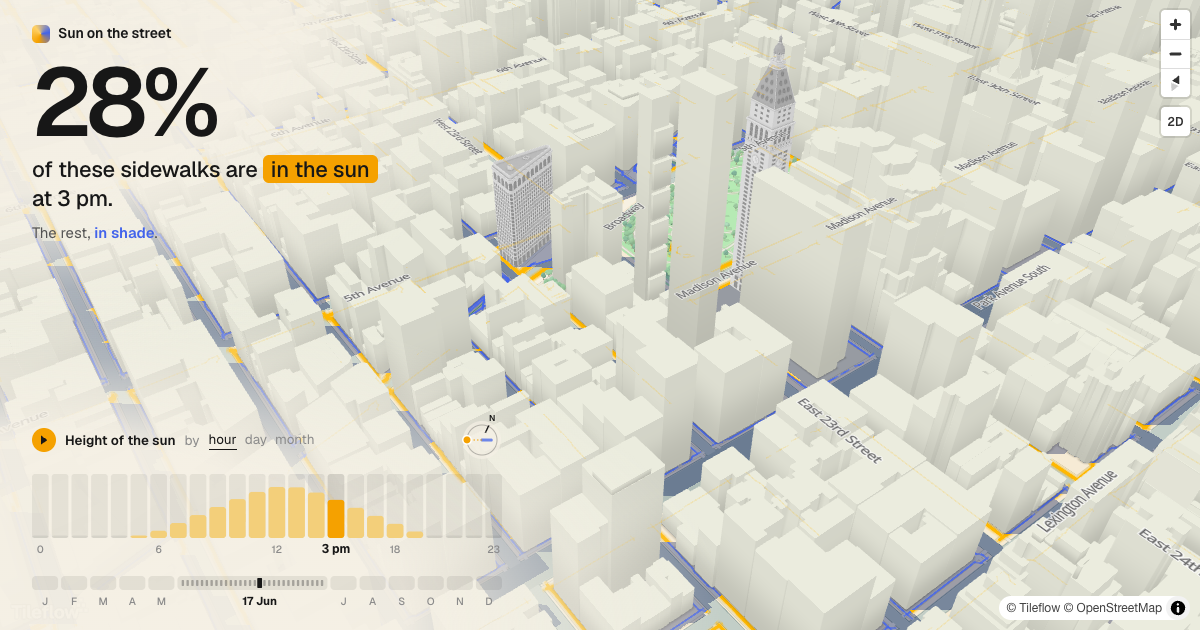
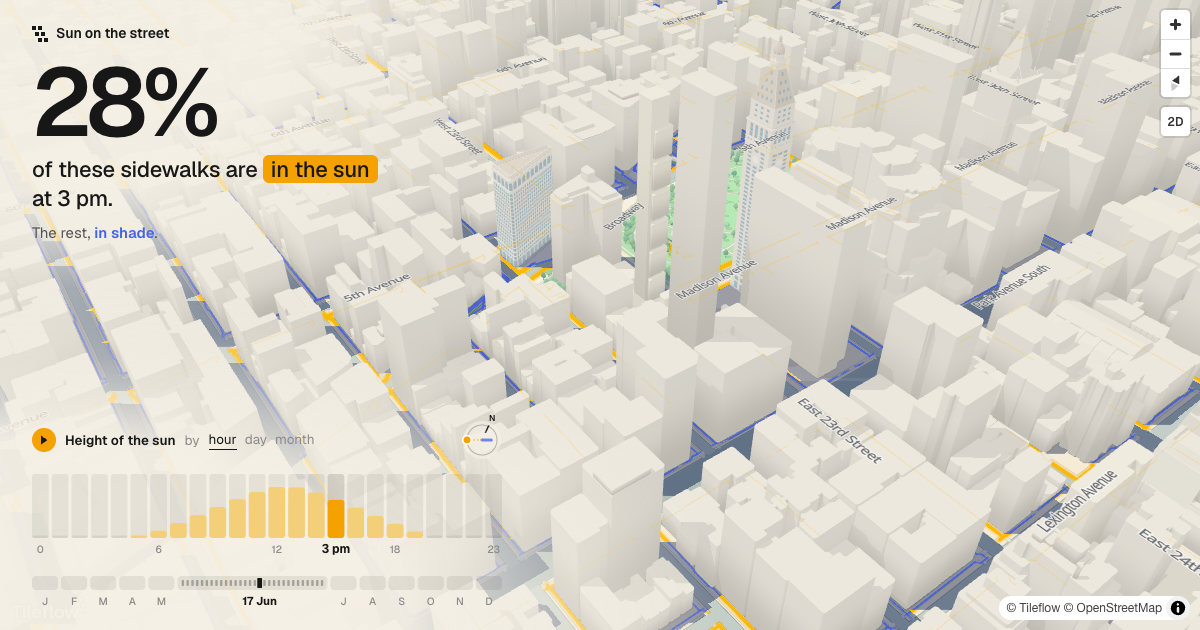
Open on Lower Manhattan, keep Streets buildings and load behind the Tileflow symbol
- The map opens tilted over Lower Manhattan and Brooklyn Heights.
- Buildings inherit the Streets module (colours, materials, edges) and only drop
  its shadow passes; the generic module made them white.
- Map and controls stay hidden behind the animated Tileflow symbol until the
  map has drawn and the first sidewalks are in, then come in one by one.
- Fixes the theme and sun transitions, whose duration was ignored.

Changed region(s): [[0.4008, 0.2413, 0.4625, 0.4222], [0.6167, 0.0603, 0.6783, 0.2714], [0.0308, 0.0302, 0.1542, 0.0603]]

diff --git a/apps/sun-on-the-street/src/style.css b/apps/sun-on-the-street/src/style.css
@@ -31,7 +31,7 @@ html, body { margin: 0; height: 100%; background: #111; color: var(--ink); font:
 button { font: inherit; color: inherit; background: none; border: 0; padding: 0; cursor: pointer; }
 
 /* soft paper behind the text, only where the text is */
-.veil { position: fixed; pointer-events: none; transition: background 0.8s; }
+.veil { position: fixed; pointer-events: none; transition: background 0.8s, opacity 0.7s ease; }
 .veil.top { left: 0; top: 0; width: 520px; height: 360px; background: radial-gradient(ellipse at 0 0, rgb(var(--paper) / 0.94) 38%, rgb(var(--paper) / 0) 72%); }
 .veil.bottom { left: 0; bottom: 0; width: 720px; height: 340px; background: radial-gradient(ellipse at 0 100%, rgb(var(--paper) / 0.95) 40%, rgb(var(--paper) / 0) 72%); }
 
@@ -39,7 +39,7 @@ button { font: inherit; color: inherit; background: none; border: 0; padding: 0;
 #head { position: fixed; left: 32px; top: 24px; max-width: calc(100vw - 64px); pointer-events: none; }
 .brand { display: flex; align-items: center; gap: 8px; font-size: 14px; margin-bottom: 18px; }
 .brand b { font-weight: 600; letter-spacing: -0.01em; }
-.logo { width: 18px; height: 18px; border-radius: 5px; background: conic-gradient(from 200deg, #f5a100, #ffd166, #4263eb, #f5a100); }
+.logo { width: 16px; height: 16px; color: var(--ink); }
 #big { font-size: 96px; font-weight: 600; letter-spacing: -0.05em; line-height: 0.85; font-variant-numeric: tabular-nums; }
 #line { font-size: 22px; font-weight: 500; letter-spacing: -0.01em; line-height: 1.3; margin: 12px 0 0; max-width: 360px; }
 #line mark { white-space: nowrap; padding: 0 8px; border-radius: 6px; color: #171717; background: var(--sun); }
@@ -109,3 +109,33 @@ button { font: inherit; color: inherit; background: none; border: 0; padding: 0;
 .months .hit { fill: transparent; }
 .months .bar:hover .track { fill: color-mix(in srgb, var(--ink) 16%, transparent); }
 .spot-tip { min-height: 2.8em; }
+
+/* The Tileflow symbol: six tiles on a 16-unit grid */
+.symbol { position: relative; display: inline-block; flex: none; }
+.symbol i { position: absolute; left: var(--x); top: var(--y); width: 25%; height: 25%; background: currentColor; }
+
+/* Loading: the symbol's wave, over the paper, until the map and the first sidewalks are in */
+#loader { position: fixed; inset: 0; display: grid; place-items: center; background: rgb(var(--paper)); color: var(--ink); transition: opacity 0.6s ease, visibility 0s linear 0.6s; z-index: 10; }
+#loader .symbol { width: 40px; height: 40px; }
+@media (prefers-reduced-motion: no-preference) {
+  #loader .symbol i { animation: desfase-loop 1500ms cubic-bezier(0.22, 1, 0.36, 1) var(--d) infinite both; }
+}
+@keyframes desfase-loop {
+  0%, 46%, 100% { transform: translate(0, 0) rotate(0) scale(1); }
+  13% { transform: translate(75%, -60%) rotate(-12deg) scale(0.84); }
+  29% { transform: translate(-20%, 15%) rotate(4deg) scale(1.06); }
+}
+html:not(.loading) #loader { opacity: 0; visibility: hidden; pointer-events: none; }
+
+/* Hidden while loading; then the map, the paper and the text come in, one after the other */
+html.loading #map, html.loading .veil, html.loading #head, html.loading #chart, html.loading .maplibregl-ctrl { opacity: 0; }
+#map, #head > *, #chart, .maplibregl-ctrl { transition: opacity 0.7s ease, transform 0.7s cubic-bezier(0.16, 1, 0.3, 1); }
+html.loading #head > *, html.loading #chart { transform: translateY(10px); }
+html:not(.loading) #head > :nth-child(2) { transition-delay: 0.08s; }
+html:not(.loading) #head > :nth-child(3) { transition-delay: 0.16s; }
+html:not(.loading) #head > :nth-child(n + 4) { transition-delay: 0.24s; }
+html:not(.loading) #chart { transition-delay: 0.3s; }
+html:not(.loading) .maplibregl-ctrl { transition-delay: 0.36s; }
+@media (prefers-reduced-motion: reduce) {
+  #map, .veil, #head > *, #chart, .maplibregl-ctrl, #loader { transition-duration: 0.01s; transition-delay: 0s !important; transform: none !important; }
+}

diff --git a/apps/sun-on-the-street/src/main.ts b/apps/sun-on-the-street/src/main.ts
@@ -414,9 +414,22 @@ const RAMP_LABELS = '<div class="ramp"></div><div class="ramp-labels" style="pos
     .map(([t, at]) => `<span style="position:absolute;left:${at}%;transform:translateX(-${at}%)">${t}</span>`)
     .join('') + '</div>';
 
+/**
+ * The page shows the loader until the map has drawn and the first sidewalks are in (or, zoomed out,
+ * as soon as the map has drawn); a slow network never holds it longer than a few seconds.
+ */
+let mapDrawn = false;
+function reveal(force = false) {
+  const root = document.documentElement;
+  if (!root.classList.contains('loading')) return;
+  if (force || (mapDrawn && (share.total > 0 || (map && map.getZoom() < MIN_ZOOM)))) root.classList.remove('loading');
+}
+setTimeout(() => reveal(true), 12000);
+
 /** The headline: what share of the sidewalks in view is in the sun, or gets almost none. */
 function renderShare() {
   if (share.dirty) measureShare();
+  reveal();
   const say = (big: string, line: string, sub = '') => {
     bigEl.textContent = big;
     lineEl.innerHTML = line;
@@ -625,7 +638,7 @@ function showSpot(r: PointResult) {
 // Start on the sidewalks while the map is still loading: the first view is already known
 function warmStart() {
   const v = params.get('view')?.split(',').map(Number);
-  const [lng, lat, zoom] = v && v.length >= 3 ? v : [-73.9803, 40.7575, 15.6];
+  const [lng, lat, zoom] = v && v.length >= 3 ? v : [-74.0065, 40.7072, 13.7];
   if (zoom < MIN_ZOOM) return;
   center = [lng, lat];
   timeZone = tzlookup(lat, lng);
@@ -717,6 +730,10 @@ controller.ready.then((m) => {
 
   layer.setMode(scope === 'hour' ? 'now' : 'day');
   m.on('rotate', () => chartView.update(view()));
+  m.once('idle', () => {
+    mapDrawn = true;
+    reveal();
+  });
 });
 
 // ------------------------------------------------------------------------------------------------

diff --git a/apps/sun-on-the-street/index.html b/apps/sun-on-the-street/index.html
@@ -1,5 +1,5 @@
 <!doctype html>
-<html lang="en">
+<html lang="en" class="loading">
   <head>
     <meta charset="utf-8" />
     <meta name="viewport" content="width=device-width, initial-scale=1" />
@@ -22,11 +22,12 @@
   </head>
   <body>
     <div id="map"></div>
+    <div id="loader" role="status" aria-label="Loading the map"><span class="symbol" aria-hidden="true"><i style="--x:0.00%;--y:0.00%;--d:0ms"></i><i style="--x:37.50%;--y:0.00%;--d:45ms"></i><i style="--x:18.75%;--y:37.50%;--d:90ms"></i><i style="--x:56.25%;--y:37.50%;--d:135ms"></i><i style="--x:37.50%;--y:75.00%;--d:180ms"></i><i style="--x:75.00%;--y:75.00%;--d:225ms"></i></span></div>
     <div class="veil top" aria-hidden="true"></div>
     <div class="veil bottom" aria-hidden="true"></div>
 
     <header id="head" aria-live="polite">
-      <div class="brand"><i class="logo" aria-hidden="true"></i><b>Sun on the street</b></div>
+      <div class="brand"><span class="symbol logo" aria-hidden="true"><i style="--x:0.00%;--y:0.00%;--d:0ms"></i><i style="--x:37.50%;--y:0.00%;--d:45ms"></i><i style="--x:18.75%;--y:37.50%;--d:90ms"></i><i style="--x:56.25%;--y:37.50%;--d:135ms"></i><i style="--x:37.50%;--y:75.00%;--d:180ms"></i><i style="--x:75.00%;--y:75.00%;--d:225ms"></i></span><b>Sun on the street</b></div>
       <div id="big">—</div>
       <p id="line">Following the sun…</p>
       <div id="sub"></div>

diff --git a/apps/sun-on-the-street/tileflow.config.ts b/apps/sun-on-the-street/tileflow.config.ts
@@ -1,5 +1,10 @@
-import {buildings, defineMap, labels, poi} from '@tileflow/core';
+import {defineMap, labels, poi} from '@tileflow/core';
 import {streets} from '@tileflow/maps';
+
+// Streets' own buildings, colours and materials included, without their shadows: the app draws the
+// exact ground shadows itself, and the map's would add a second, shorter set.
+const buildings = streets.modules.buildings as unknown as {renderStack: Record<string, unknown>};
+const {flatShadow, shadowSoft, shadowCore, ...renderStack} = buildings.renderStack;
 
 export default defineMap({
   id: 'sun-streets',
@@ -10,8 +15,8 @@ export default defineMap({
   modules: {
     labels: labels({places: 'major', roads: 'major', water: 'none'}),
     poi: poi({categories: []}),
-    // the app draws exact ground shadows itself; the map's own would add a second, shorter set
-    buildings: buildings({threeDimensional: {shadows: false}}),
+    buildings: {...buildings, renderStack} as typeof streets.modules.buildings,
   },
-  view: {center: [-73.9803, 40.7575], zoom: 15.6, pitch: 0, bearing: 29},
+  // Lower Manhattan and Brooklyn Heights, tilted
+  view: {center: [-74.0065, 40.7072], zoom: 13.7, pitch: 40, bearing: 20},
 });
